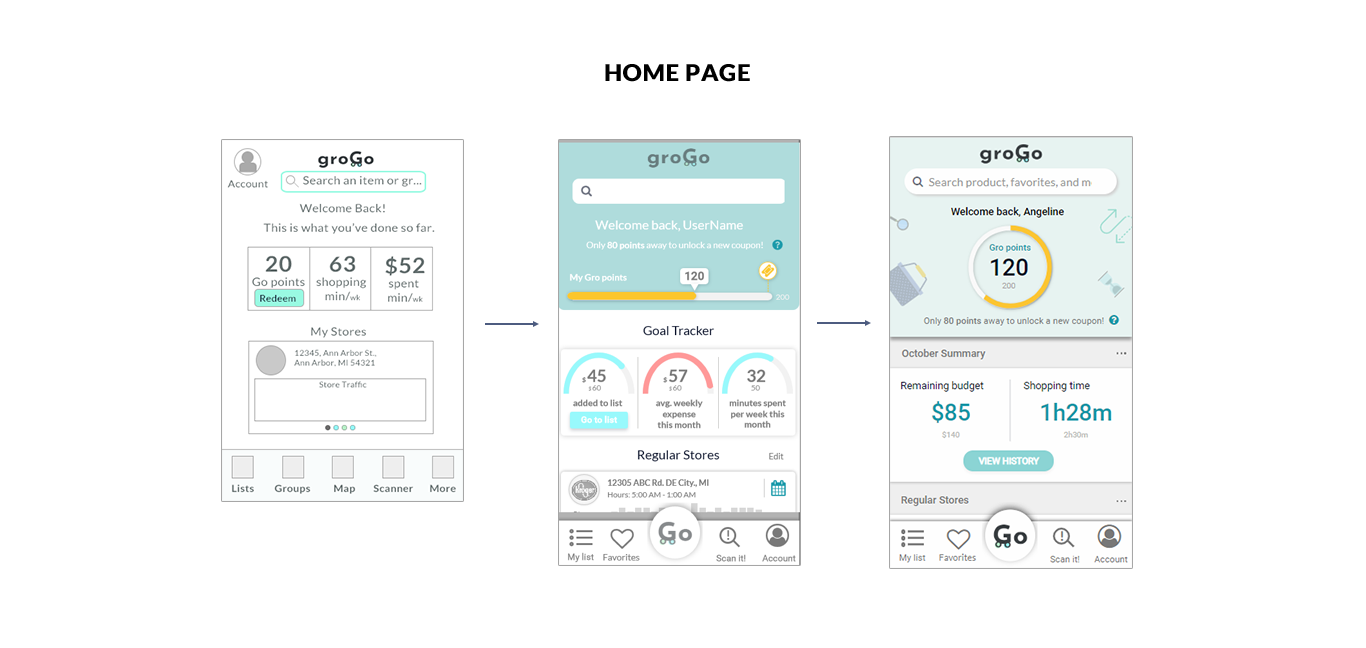
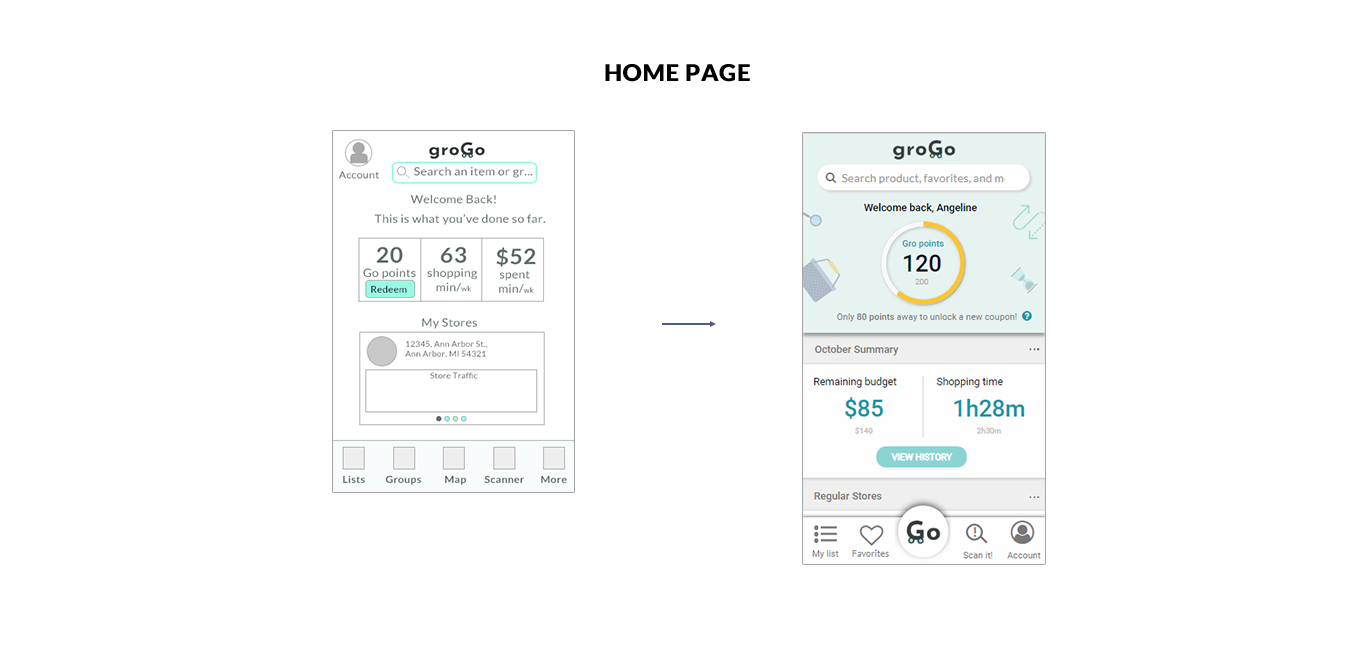
update process

Changed region(s): [[0.1537, 0.1852, 0.8302, 0.8951], [0.7994, 0.1852, 0.8302, 0.216]]

diff --git a/groGo.html b/groGo.html
@@ -261,7 +261,7 @@
           </div>
           <div class = "third-block"><br>
             <img src = "imgs/grogo/customer.png" alt = "setting icon"/><br>
-            <h4>Record Dietary Preference</h4><br>
+            <h4>Dietary Preference</h4><br>
             <h5>Identify suitable choices for shoppers to reach dietary goals.</h5>
           </div>
         </div>
@@ -356,7 +356,6 @@
           <h5 class = "grogo-title-tag">Brainstorming</h5><br><br>
           <p>I started to brainstorm as many potential solutions as possible. These include <b>pickup service, hired shopper service, smart shopping cart, digital shelves, and interactive information wall at store</b>. <br><br>
           In the end, I have considered user needs and contraints, and opted for designing 'groGo'-- a mobile app that serves as a one-stop soltution for in-store shoppers. The considerations are accessibiliy, maintainence, and development time.</p><br><br>
-          <br><br>
           <p>I brainstormed <b>eight possible features</b> for the mobile app, and visualized them in <b>storyboards</b> depicting their usage scenarios.</p><br><br>
         </div>
           <div class ="flex-row"><img alt = "story board" src = "imgs/grogo/storyboard.png">
@@ -429,70 +428,39 @@
           <h5 class = "grogo-title-tag">Design Changes</h5><br><br>
           <p>I have iterated multiple times working on the digital prototype, <b>each time followed by a brief user testing on certain task</b> for further feedback and usability check. Some key changes I have made before reaching the final design include:</p>
           <div class ="flex-row">
-            <a href = "imgs/grogo/homeprocess.png" target = "_blank"><img src = "imgs/grogo/homeprocess.png" alt = "homepage iteration process"/></a>
+            <a href="imgs/grogo/homeprocess.png" data-lightbox="home process" data-title="Home page dashboard design changes"><img src = "imgs/grogo/homeprocess.png" alt = "homepage iteration process"/></a>
           </div>
-          <h4>Home Page</h4><br>
-          <p>
-            <ul>
-                <li><b>1st Version</b> - Plain numeric display for progress, budget and shopping time.
-                    <ul><li><b>Feedback:</b>
-                      <i>"The point are important for me to be motivated. I would like it to be shown on the top."</i></li>
-                    </ul>
-                </li>
-                <li><b>2nd Version</b> - Add progress bar for GO points. Add current list total. Add scheduling button.
-                    <ul><li><b>Feedback:</b>
-                      <i>"The progress bars for total cost on current shopping list makes me want to spend more to reach weekly budget. In addition, I don't really care about how much I have added on list."</i></li>
-                    </ul>
-                </li>
-                <li><b>3rd Version</b> - Change the GO point display to larger number and circular progress bar. Display remaining budget and shopping time in plain text. Hide visualized trend tracking data in 'view history'.
-                    <ul><li><b>Feedback:</b>
-                      <i>"The visual looks cleaner. The text presented in larger size is straightforward for me to see wmy status."</i></li>
-                    </ul>
-                </li>
-            </ul>
-          </p>
+          <div class="slidetext-multi">
+            <h2>Re-designed the dashboard on the home page</h2><br>
+            <h4>Before: </h4>
+            <p>Plain numeric display for progress, budget and shopping time.</p>
+            <h4>After: </h4>
+            <p>Add progress bar for GO points to motivate users. Display user's own goal at the bottom of current expenses and shopping time, with trend tracking feature to check historic performance.
+            </p>
+          </div>
+
           <div class ="flex-row">
-            <a href = "imgs/grogo/searchprocess.png" target = "_blank"><img src = "imgs/grogo/searchprocess.png" alt = "search restuls iteration process"/></a>
+            <a href="imgs/grogo/searchprocess.png" data-lightbox="search process" data-title="Search results design changes"><img src = "imgs/grogo/searchprocess.png" alt = "search restuls iteration process"/></a>
           </div>
-          <h4>Search Results Page</h4><br>
-          <p>
-            <ul>
-                <li><b>1st Version</b> - Same button design for 'add to list' and 'add to group', with a large pop-up window navigate different item groups (favorite items).
-                    <ul><li><b>Feedback:</b>
-                      <i>"The buttons look too similar. I may make mistake pressing the wrong button. Also the pop-up window is not necessary"</i></li>
-                    </ul>
-                </li>
-                <li><b>2nd Version</b> - Changed 'add to group' button to a heart shape icon locating at a different side of the screen. Replace the large pop-up window with a smaller, simpler selection lightbox.
-                    <ul><li><b>Feedback:</b>
-                      <i>"The current design is more intuitive and allows me to focus on single task at a time."</i></li>
-                    </ul>
-                </li>
-            </ul>
-          </p>
+          <div class="slidetext-multi">
+            <h2>Changed the concept of features to match with real world experience</h2><br>
+            <h4>Before: </h4>
+            <p>Same button design for 'add to list' and 'add to group'. Users had problem differentiating both concepts, and they were prone to tap the wrong button.</p>
+            <h4>After: </h4>
+            <p>Change the term 'group' to 'favorites' to avoid misunderstanding. Use a heart-shaped icon to signify it's a long-term, regularly purchsed item.
+            </p>
+          </div>
           <div class ="flex-row">
             <a href="imgs/grogo/mapprocess.png" data-lightbox="map" data-title="In-store map design changes"><img src = "imgs/grogo/mapprocess.png" alt = "in-store map iteration process"/></a>
           </div>
-          <h4>Im-Store Map</h4><br>
-          <p>
-            <ul>
-                <li><b>1st Version</b> - Items presented in a horizontal scroll section, ordered by aisle number.
-                    <ul><li><b>Feedback:</b>
-                      <i>"Hard to see the items clearly without product name and price."</i></li>
-                    </ul>
-                </li>
-                <li><b>2nd Version</b> - Use a minimizable, vertical menu for items on the list. Change the color of the item locations and the iterary for more contrast.
-                    <ul><li><b>Feedback:</b>
-                      <i>"If I do not zoom in, I may hit the wrong item button on the map."</i></li>
-                    </ul>
-                </li>
-                <li><b>3rd Version</b> - Use a larger pin icon to represent item locations on the map. When use clicks on an item button on the map and on the menu, product details will show up.
-                    <ul><li><b>Feedback:</b>
-                      <i>"This is easier for me to check item details."</i></li>
-                    </ul>
-                </li>
-            </ul>
-          </p>
-          <div class ="flex-row"></div>
+          <div class="slidetext-multi">
+            <h2>Redesigned the shopping list on in-store map</h2><br>
+            <h4>Before: </h4>
+            <p>Items were presented in a horizontal scroll menu, ordered by aisle number.</p>
+            <h4>After: </h4>
+            <p>Use a minimizable, vertical menu to match the shopping list page design. Allow users to check individual item on the route by tapping the pin icon.
+            </p>
+          </div>
 
           <br><br>
       <!-- Slideshow container -->
